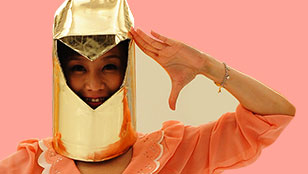
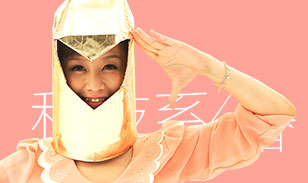
u

diff --git a/.build/w/index.html b/.build/w/index.html
@@ -115,7 +115,7 @@ var openwin = function openwin(pic) {
                         <img id="i3" src="images/is3.jpg" class="img-i none wb1" />
                         <img id="i4" src="images/is4.jpg" class="img-i none wb1" />
                         <img id="i5" src="images/is5.jpg" class="img-i none wb1" />
-                        <img id="i6" src="images/is1.jpg" class="img-i none wb1" />
+                        <img id="i6" src="images/is6.jpg" class="img-i none wb1" />
                         <img id="i7" src="images/is7.jpg" class="img-i none wb1" />
                         <img id="i8" src="images/is8.jpg" class="img-i none wb1" />
                         <img src="images/love.png" class="love none1"/>
